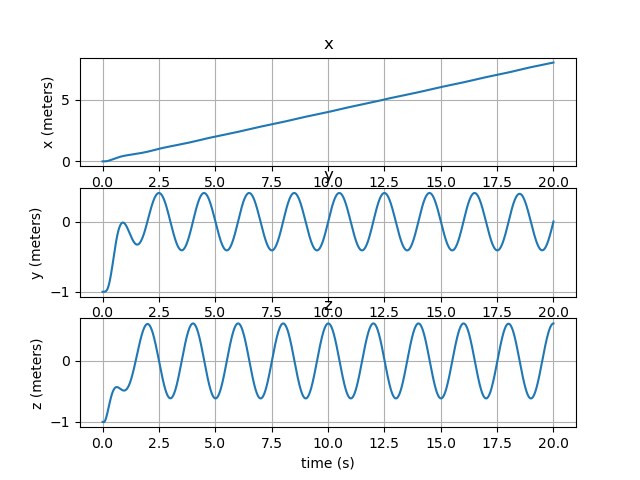
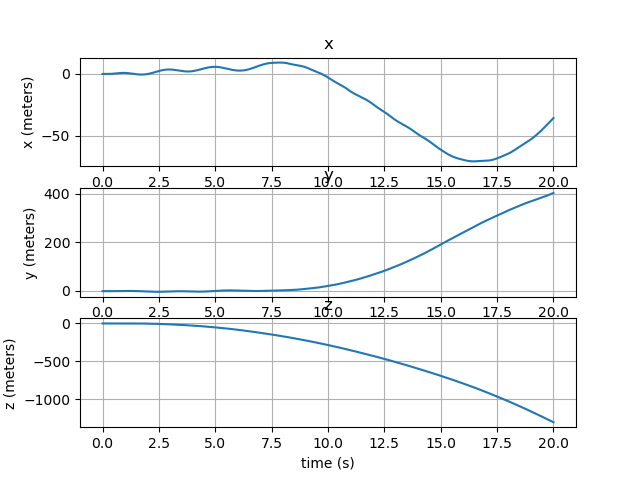
Tzi check

diff --git a/MultiRotorDynamics.py b/MultiRotorDynamics.py
@@ -37,6 +37,8 @@ class Rotor(Limb):
         self.sigma = sigma #which way the rotor rotates
         self.C_t = motor_dict[motor_prop_comb_num]["C_T"]
         self.C_q = self.C_t/10
+
+        self.maxforce = self.C_t*self.maxrps**2
         self.lowrps_to_A = np.poly1d(np.polyfit(motor_dict[motor_prop_comb_num]["RPM"][:2],motor_dict[motor_prop_comb_num]["A"][:2], 1))
         self.lowrps_to_W = np.poly1d(np.polyfit(motor_dict[motor_prop_comb_num]["RPM"][:2],motor_dict[motor_prop_comb_num]["W"][:2], 1))
         self.highrps_to_A = np.poly1d(np.polyfit(motor_dict[motor_prop_comb_num]["RPM"][1:],motor_dict[motor_prop_comb_num]["A"][1:], 2))
@@ -50,6 +52,13 @@ class Rotor(Limb):
         # print(f"force_bf : {force_bf}")
         return force_bf
     
+    def get_Tzi(self):
+        force_rf = self.C_t*self.maxrps**2*np.array([0,0,1])
+        force_rf = np.reshape(force_rf,(3,1))
+        force_bf = self.R@force_rf
+        # print(f"force_bf : {force_bf}")
+        return np.array([0,0,1])@force_bf
+
     def get_rps(self):
         return self.rps
     
@@ -347,6 +356,7 @@ class MultiRotor:
         self.IMU = IMU
         self.Controller = Controller
         self.J = self.calculate_inertial_tensor()
+        self.maxTzi = self.calculate_sum_of_Tzi()
 
         self.t_vec_history = np.reshape(t_vec,(3,1))
         self.rot_vec_history = np.reshape(rot_vec,(3,1))
@@ -416,6 +426,12 @@ class MultiRotor:
     def calculate_sum_of_torques_bf(self):
         # print(f"M_real: {self.calculate_reaction_torque_bf()+self.calculate_torque_from_thrust_bf()}")
         return self.calculate_reaction_torque_bf()+self.calculate_torque_from_thrust_bf()#+self.calculate_torque_from_gravity_bf()
+
+    def calculate_sum_of_Tzi(self):
+        sum = 0
+        for rotor in self.rotors:
+            sum += rotor.get_Tzi()
+        return sum
 
     def set_rotor_forces(self,rotor_forces):
         i = 0

diff --git a/main.py b/main.py
@@ -61,10 +61,11 @@ def main():
     TrajectoryPlanner = mrd.TrajectoryPlanner(delta_t,max_time,x_d,b1_d)
     
     #Normal Quadrotor rotors
-    rotors.append(mrd.Rotor(m_rotor,np.array([0,0,0],dtype=float),np.array([d,0,0],dtype=float),20,-1,0))
-    rotors.append(mrd.Rotor(m_rotor,np.array([0,0,0],dtype=float),np.array([0,d,0],dtype=float),-20,1,0))
-    rotors.append(mrd.Rotor(m_rotor,np.array([0,0,0],dtype=float),np.array([-d,0,0],dtype=float),20,-1,0))
-    rotors.append(mrd.Rotor(m_rotor,np.array([0,0,0],dtype=float),np.array([0,-d,0],dtype=float),-20,1,0))
+    rotors.append(mrd.Rotor(m_rotor,np.array([0,0,0],dtype=float),np.array([d,0,0],dtype=float),20,-1,3))
+    rotors.append(mrd.Rotor(m_rotor,np.array([0,0,0],dtype=float),np.array([0,d,0],dtype=float),-20,1,3))
+    rotors.append(mrd.Rotor(m_rotor,np.array([0,0,0],dtype=float),np.array([-d,0,0],dtype=float),20,-1,3))
+    rotors.append(mrd.Rotor(m_rotor,np.array([0,0,0],dtype=float),np.array([0,-d,0],dtype=float),-20,1,3))
+    
     
     #Custom
     # rotors.append(mrd.Rotor(m_rotor,np.array([0,0,-np.pi/32],dtype=float),np.array([d,0,0],dtype=float),20,-1,16))
@@ -94,8 +95,10 @@ def main():
     print(f"Sum of Reaction Torque: {quad.calculate_reaction_torque_bf()}")
     # for i in range(int(6)):
     #     quad.simulate_timestep(delta_t,obst_wf)
-    for i in range(int(max_time/delta_t)):
-        quad.simulate_timestep(delta_t,obst_wf)
+    if(quad.maxTzi > 2*g*quad.total_mass):
+        print(f"{quad.maxTzi} > {2*g*quad.total_mass}")
+        for i in range(int(max_time/delta_t)):
+            quad.simulate_timestep(delta_t,obst_wf)
         
     
     # print(quad.t_vec_history)
